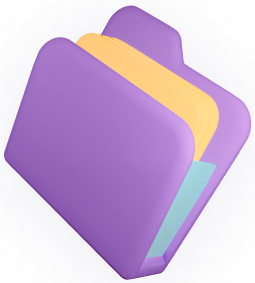
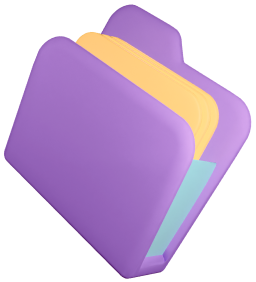
feat: change to image without shadow and use throught CSS property

diff --git a/src/components/Layout/Sidebar/MenuLink.tsx b/src/components/Layout/Sidebar/MenuLink.tsx
@@ -15,7 +15,11 @@ const Root = styled.li<{ isActive: boolean }>`
   background: ${({ isActive }) => (isActive ? palette.themeWhite.toString() : 'transparent')};
   
   & > a {
-    color: ${({ isActive }) => (isActive ? palette.typePrimary.toString() : palette.themeWhite.toString())};  
+    color: ${({ isActive }) => (isActive ? palette.typePrimary.toString() : palette.themeWhite.toString())};
+
+    &:hover {
+      color: ${({ isActive }) => (isActive ? palette.typePrimary.toString() : '#d6d6d6')}
+    }
   }
 
   & svg {
@@ -28,11 +32,13 @@ const Root = styled.li<{ isActive: boolean }>`
 
 const Link = styled(RawLink)`
   color: inherit;
-  display: flex;
+  display: inline-flex;
   align-items: center;
-  width: 100%;
   height: 24px;
   text-decoration-line: none;
+  transition: color 0.25s;
+  
+
 `;
 
 const Name = styled.div`

diff --git a/src/components/Layout/index.tsx b/src/components/Layout/index.tsx
@@ -31,6 +31,7 @@ const Magnifier = styled.img`
   top: -110px;
   left: -65px;
   z-index: 20;
+  filter: drop-shadow(0px 9.88285px 98.8285px rgba(63, 39, 102, 0.1));
 `;
 
 const Folder = styled.img`
@@ -38,6 +39,7 @@ const Folder = styled.img`
   bottom: -110px;
   right: -145px;
   z-index: 5;
+  filter: drop-shadow(0px 8.90782px 89.0782px rgba(63, 39, 102, 0.1));
 `;
 
 interface Props {
